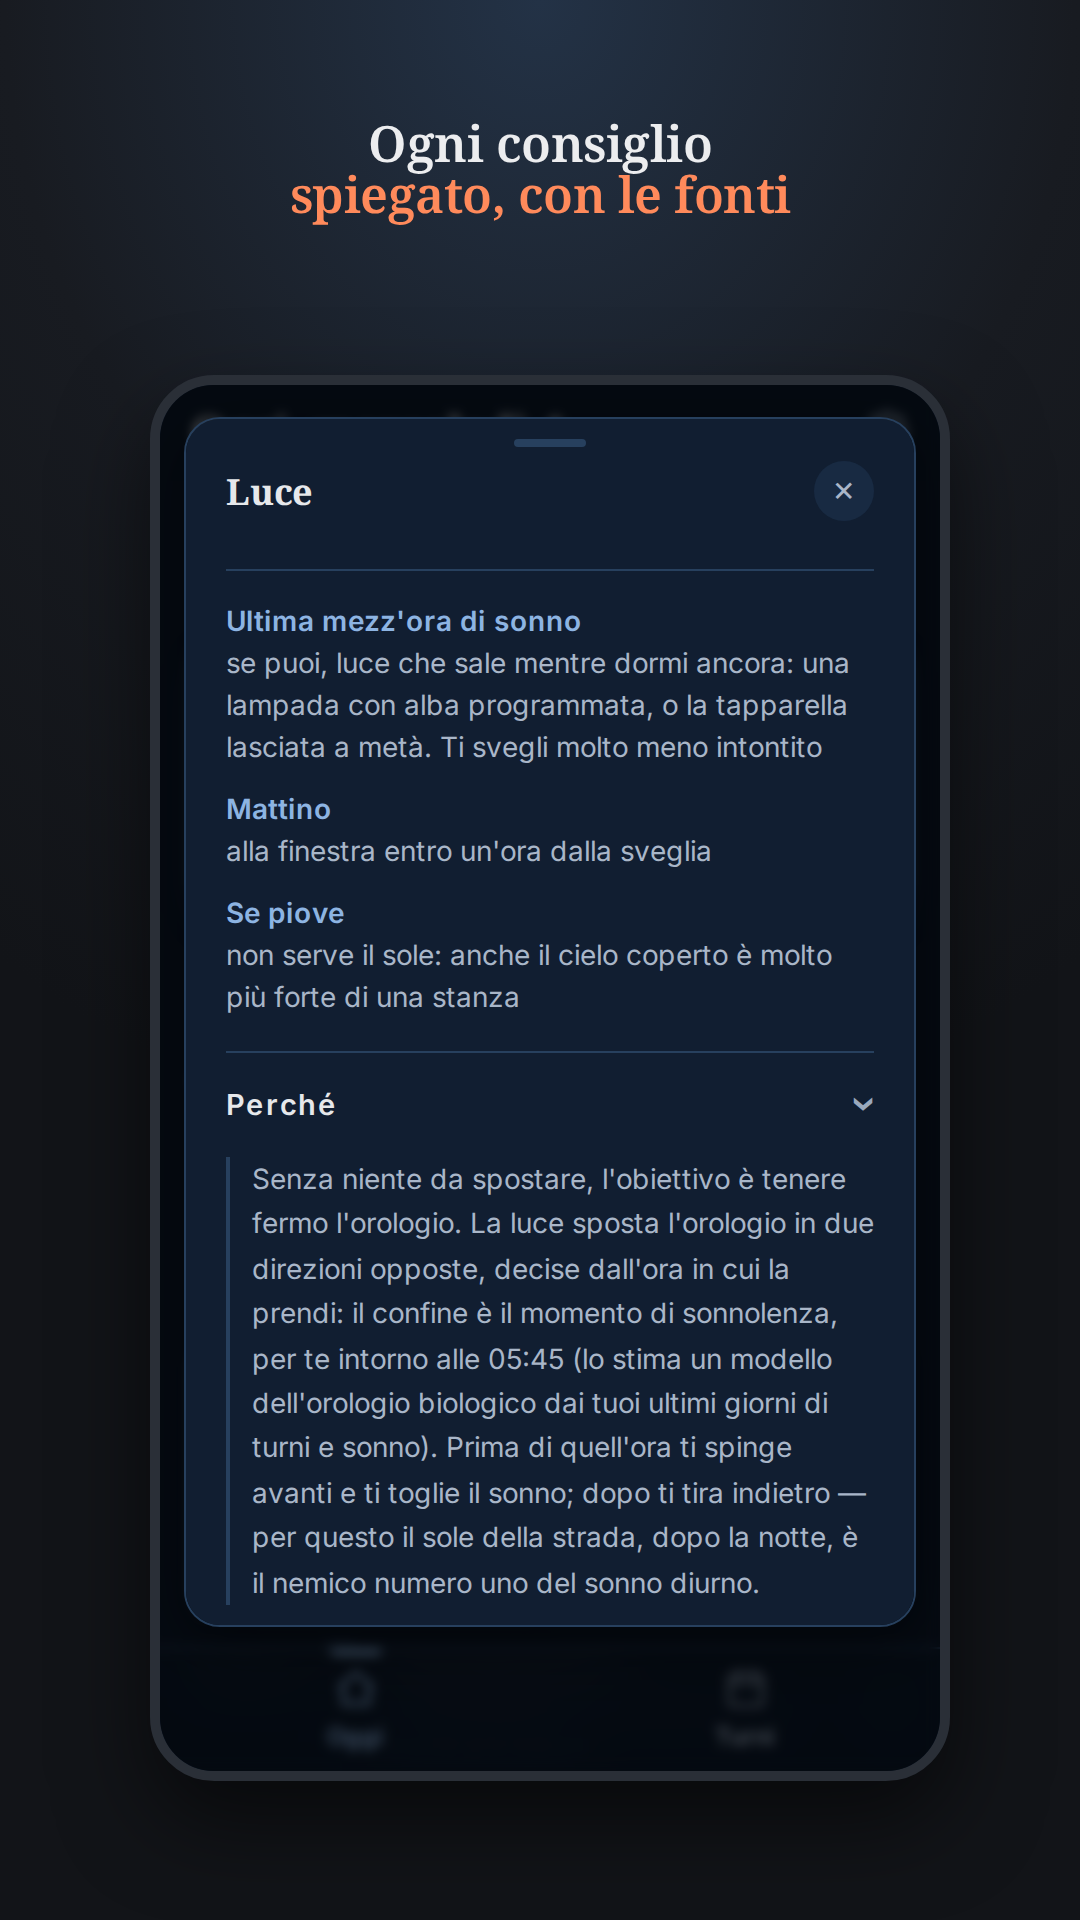
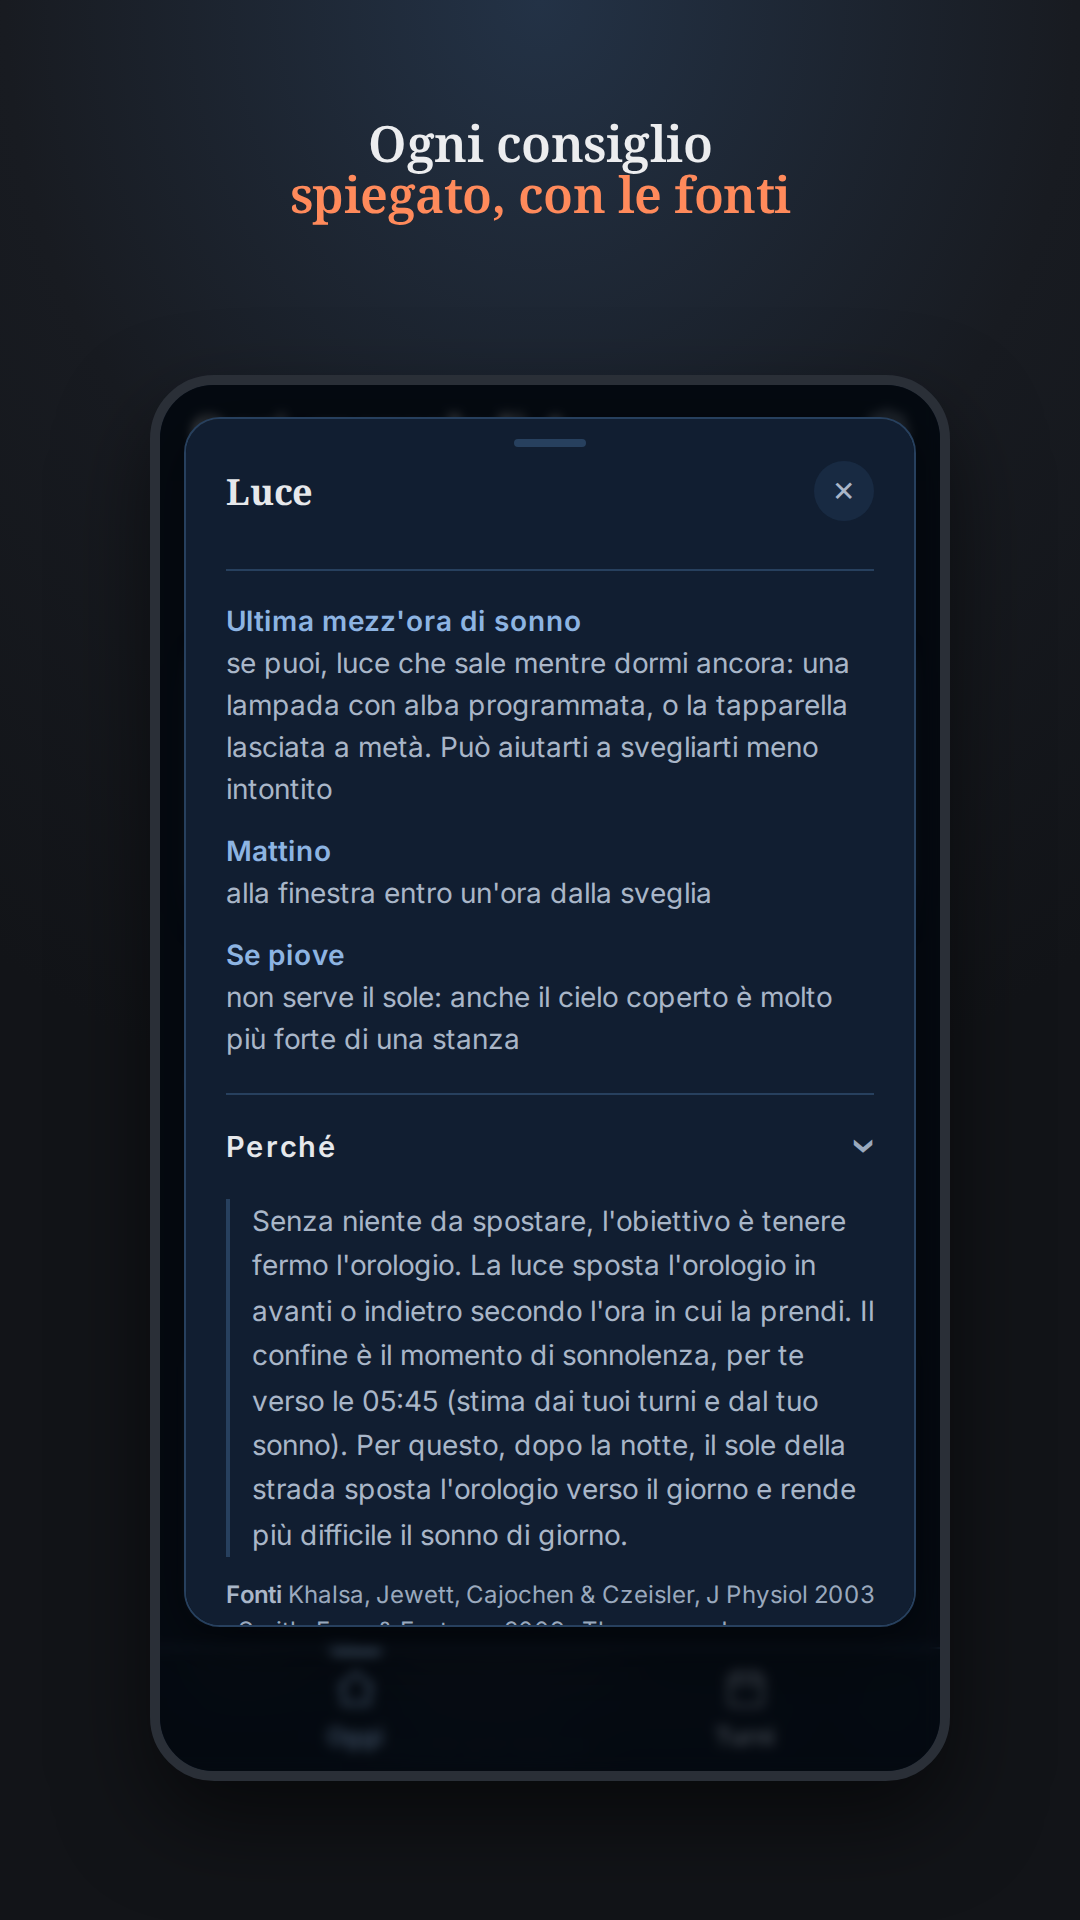
Testi: giro 5 del revisore; screenshot Play rigenerati
- Debito: il recupero è sempre parziale («ne recupera una parte»).
- Alba simulata: «può aiutarti a svegliarti meno intontito».
- Cronotipo dal diario: stesso taglio delle 18:00, test con 11:45/12:15.
- Autisti e smonto: al risveglio riparti solo quando sei sveglio; un
  quarto d'ora prima di partire. «Di solito» dove mancava.
- Impegno: «il sonno dei giorni prima si sposta verso quest'ora».
- Screenshot Play rigenerati e controllati: niente testi ritirati.

Changed region(s): [[0.1833, 0.4062, 0.7944, 0.8438], [0.3972, 0.375, 0.7639, 0.4062]]

diff --git a/index.html b/index.html
@@ -3863,14 +3863,14 @@ function cards(P){
     sc.sub="Fra questo turno e il prossimo, con il viaggio, non c'è tempo per un sonno vero. Riposa appena puoi e, se si può, chiedi un cambio: è un momento delicato per guidare, e se hai sonno meglio non guidare.";
   }
   else if(s.kind==="diurno"){
-    sc.sub="A letto appena rientri, senza fermate. Di giorno si dorme meno, è normale: le ore che mancano le recuperi col pisolino del pomeriggio.";
+    sc.sub="A letto appena rientri, senza fermate. Di giorno si dorme meno, è normale: una parte delle ore che mancano la recuperi col pisolino del pomeriggio.";
     sc.rows.push(["Camera","buio totale, tappi, telefono in silenzioso"]);
-    sc.why="Di giorno il corpo spinge a restare sveglio, e allungare a forza il sonno del mattino serve a poco. Un pisolino prima del turno rende molto di più.";
+    sc.why="Di giorno il corpo spinge a restare sveglio, e allungare a forza il sonno del mattino serve a poco. Un pisolino prima del turno di solito rende di più.";
     sc.cite="Rosekind e coll. 1995 (NASA)";
   }else if(s.kind==="corto"){
     sc.small=dur(s.dur)+" · corto apposta";
     sc.sub="È lo smonto. Dormi poco stamattina e poi resta sveglio fino a sera: costa una giornata, ma di solito domani sei già sugli orari di tutti.";
-    sc.rows.push(["Nel pomeriggio","meglio niente pisolini dopo lo smonto; se nel pomeriggio devi guidare e hai sonno, la sicurezza viene prima: un pisolino di 20 minuti"]);
+    sc.rows.push(["Nel pomeriggio","meglio niente pisolini dopo lo smonto; se nel pomeriggio devi guidare e hai sonno, la sicurezza viene prima: un pisolino di 20 minuti, e aspetta un quarto d'ora prima di partire"]);
     sc.rows.push(["Stasera","a letto verso "+hhmm(NT.at(P.S,1).onset)]);
     sc.rows.push(["Sveglia","sempre alla stessa ora nei giorni di smonto, con luce appena sveglio: aiuta a riallineare l'orologio"]);
     sc.why="Dormire fino al pomeriggio dopo l'ultima notte sembra giusto, ma sposta l'orologio ancora più in là: la notte dopo non dormi e perdi anche il secondo giorno di riposo.";
@@ -3944,7 +3944,7 @@ function cards(P){
   }else if(shift<-20){
     lc.blocks=[["seek",wake,wake+180,"cerca"],["avoid",s.onset-NT.CFG.eveningDim,s.onset,"evita"]];
     lc.val="Luce piena al risveglio"; lc.small="ti stai alzando prima";
-    lc.rowsA.push(["Ultima mezz'ora di sonno","se puoi, luce che sale mentre dormi ancora: una lampada con alba programmata, o la tapparella lasciata a metà. Ti svegli molto meno intontito"]);
+    lc.rowsA.push(["Ultima mezz'ora di sonno","se puoi, luce che sale mentre dormi ancora: una lampada con alba programmata, o la tapparella lasciata a metà. Può aiutarti a svegliarti meno intontito"]);
     lc.rowsA.push(["Al risveglio","esci o mettiti alla finestra entro un'ora"]);
     lc.rowsA.push(["Se non puoi uscire","accendi tutto quello che hai: poca luce è meglio di niente"]);
     lc.rowsE.push(["Sera","luci basse dalle "+hhmm(s.onset-NT.CFG.eveningDim)+", schermi al minimo"]);
@@ -3952,7 +3952,7 @@ function cards(P){
   }else{
     lc.blocks=[["seek",wake,wake+120,"cerca"],["avoid",s.onset-NT.CFG.eveningDim,s.onset,"evita"]];
     lc.val="Luce al mattino";
-    lc.rowsA.push(["Ultima mezz'ora di sonno","se puoi, luce che sale mentre dormi ancora: una lampada con alba programmata, o la tapparella lasciata a metà. Ti svegli molto meno intontito"]);
+    lc.rowsA.push(["Ultima mezz'ora di sonno","se puoi, luce che sale mentre dormi ancora: una lampada con alba programmata, o la tapparella lasciata a metà. Può aiutarti a svegliarti meno intontito"]);
     lc.rowsA.push(["Mattino","alla finestra entro un'ora dalla sveglia"]);
     lc.rowsA.push(["Se piove","non serve il sole: anche il cielo coperto è molto più forte di una stanza"]);
     lc.rowsE.push(["Sera","luci basse dalle "+hhmm(s.onset-NT.CFG.eveningDim)]);
@@ -4017,11 +4017,11 @@ function cards(P){
       val:hhmm(n.a)+" → "+hhmm(n.b), small:dur(n.b-n.a)+(n.rep?" · sei reperibile":""),
       sub:n.rep?("Oggi sei reperibile: se ti chiamano, la notte di sonno salta. Questo pisolino è una riserva, abbastanza lontano dalla sera da non rubarti il sonno se non chiama nessuno.")
          :n.corto?("Prima non c'era spazio per un pisolino intero: venti minuti, presi appena puoi, valgono più di niente.")
-         :n.dopo?("Prima del turno non c'era spazio. Recuperi appena stacchi, invece di portarti il debito a domani.")
+         :n.dopo?("Prima del turno non c'era spazio. Appena stacchi ne recuperi una parte, invece di portarti tutto il debito a domani.")
          :n.rec?(n.last?"L'ultimo è corto apposta: così stasera ti addormenti a un orario normale."
                        :"È la seconda metà del tuo riposo, non un extra.")
          :n.lungo?("Oggi stai in piedi "+hm(n.ore)+" di fila, e le ultime ore cadono nel tuo momento di sonnolenza. Un pisolino adesso ti toglie il tratto più duro e di solito ti fa arrivare a fine turno più lucido.")
-         :n.debito?(debitoMotivo(n)+" Questo pisolino non è un extra: rimette a posto il conto prima che si sommi a domani.")
+         :n.debito?(debitoMotivo(n)+" Questo pisolino non è un extra: ne recupera una parte prima che si sommi a domani.")
          :n.turno?("Nella pausa, prima del momento peggiore della notte. Finisce con largo margine dalla fine del turno: svegliarsi poco prima di salire in macchina peggiorerebbe proprio l'ora più delicata.")
          :((n.b-n.a)<40&&!n.rec&&!n.lungo&&!n.debito&&!n.turno)?("Hai dormito abbastanza, ma fra la sveglia di stamattina e il letto di stanotte passano "+hm(n.ore||0)+" di fila. Un pisolino corto prima di uscire non ti ruba il sonno di stanotte e di solito ti fa arrivare a fine turno più lucido.")
          :(n.first?"Di solito è il pisolino che aiuta di più in tutto il ciclo. Fallo anche senza sonno, prima di uscire di casa."
@@ -4032,7 +4032,7 @@ function cards(P){
         ["Al risveglio","per circa un quarto d'ora sei più lento: se puoi, aspetta quel quarto d'ora prima di guidare o di fare cose delicate"]],
       nap:{k:hhmm(n.a), fine:hhmm(n.b), min:n.b-n.a, turno:!!n.turno, livello:n.livello, caffe:!!n.caffe, caffeNo:n.caffeNo||""},
       why:(night ? "Dormire prima di entrare riduce il crollo di attenzione nelle ore centrali della notte, quando gli errori costano di più."
-                 : "Dormire prima di entrare ti fa arrivare al turno più lucido, e il sonno che manca pesa meno sulle ore di lavoro.")+" Un'ora e mezza di solito lascia finire un ciclo di sonno e ci si sveglia meno intontiti; se non hai tempo, venti minuti sono meglio di niente.",
+                 : "Dormire prima di entrare di solito ti fa arrivare al turno più lucido, e il sonno che manca pesa meno sulle ore di lavoro.")+" Un'ora e mezza di solito lascia finire un ciclo di sonno e ci si sveglia meno intontiti; se non hai tempo, venti minuti sono meglio di niente.",
       cite:"Rosekind e coll. 1995 (NASA) · Tassi & Muzet 2000", at:n.a});
   }
 
@@ -4101,7 +4101,7 @@ function cards(P){
       sub:"Per il viaggio contiamo "+state.cTo+" minuti all'andata e "+state.cFrom+" al ritorno: decidono quando ti prepari e da quando sei di nuovo libero.",
       ...(state.guidaLavoro ? {
         rows:[["Pause di guida","dopo 4 ore e mezza di guida, 45 minuti di pausa (anche in due: prima 15, poi 30)"],
-              ["Se hai sonno","nella pausa un caffè e subito un pisolino di 15–20 minuti; di solito l'intontimento passa in pochi minuti: riparti quando ti senti sveglio"]],
+              ["Se hai sonno","nella pausa un caffè e subito un pisolino di 15–20 minuti; al risveglio riparti solo quando ti senti sveglio"]],
         why:"Per camion e autobus le pause sono quelle delle regole europee (le stesse del tachigrafo). Il sonno al volante non avvisa: al simulatore, caffè più pisolino breve funziona meglio dei due da soli; finestrino aperto e radio alta no.",
         cite:"Reg. (CE) 561/2006, art. 7 · Reyner &amp; Horne 1997 (simulatore di guida)" } : {}),
       cambia:4, cambiaTxt:"Cambia il tuo tragitto",
@@ -4637,11 +4637,11 @@ function diaryReminder(P, CARDS){
     if(extraN){ stato="Da recuperare: "+hm(P.debitoMin)+" di sonno · stanotte +"+extraN+" min";
       statoPerche="Con più di tre ore di debito un pisolino non basta, e accorcerebbe il sonno di stanotte: per questo il piano anticipa di "+extraN+" minuti l'ora di letto. La sveglia resta la stessa, perché spostarla sposterebbe anche l'orologio del corpo."; }
     else if(napRec){ stato="Da recuperare: "+hm(napRec.debito)+" di sonno · pisolino alle "+hhmm(napRec.a);
-      statoPerche=debitoMotivo(napRec)+" Il pisolino non è un extra: rimette a posto il conto prima che si sommi a domani. Quando comincia ti chiedo se l'hai fatto."; }
+      statoPerche=debitoMotivo(napRec)+" Il pisolino non è un extra: ne recupera una parte prima che si sommi a domani. Quando comincia ti chiedo se l'hai fatto."; }
     else if(P.debitoScoperto>0){ stato="Da recuperare: "+hm(P.debitoScoperto)+" di sonno · oggi non c'è spazio per un pisolino";
       statoPerche="Oggi non c'è spazio per un pisolino, né prima né dopo il turno. Il conto resta aperto: recupera stanotte e, se hai sonno, evita di guidare."; }
     else if(napRecDebt){ stato="Per recuperare, il piano propone un pisolino alle "+hhmm(napRecDebt.a);
-      statoPerche="La notte è stata più corta di quella che il piano proponeva: un pisolino di recupero evita di portare il conto a domani."; }
+      statoPerche="La notte è stata più corta di quella che il piano proponeva: un pisolino di recupero ne toglie una parte."; }
     // le notti che pesano di più: il «Perché?» mostra da dove viene il numero
     const notti=(P.debitoNotti||[]).map(x=>{ const g=new Date(x.date+"T12:00:00").toLocaleDateString(LINGUA,{weekday:"short",day:"numeric",month:"short"});
       return '<div class="row"><b>'+esc(g.charAt(0).toUpperCase()+g.slice(1))+'</b><span>'+hm(x.totale)+' su '+hm(x.meta)+' (–'+hm(x.manca)+')</span></div>'; }).join("");
@@ -6950,7 +6950,7 @@ function renderHeader(P, f){
     if(diffDays >= 1 && diffDays <= 3 && dnum(state.focus) === dnum(giornoVero())){
       cls = (cls ? cls + " " : "") + "info";
       const evGiornoTxt = diffDays === 1 ? "domani" : evD.toLocaleDateString(LINGUA, { weekday: "long" });
-      msg += (msg?'<br>':'')+'<span class="lucidita-banner" style="display:inline-block;margin-top:6px;font-size:13px;color:var(--blue);font-weight:600">🎯 In vista dell\'impegno di ' + esc(evGiornoTxt) + ' alle ' + esc(state.evento.h) + ', il sonno di questi giorni è regolato per arrivarci in forma.</span>';
+      msg += (msg?'<br>':'')+'<span class="lucidita-banner" style="display:inline-block;margin-top:6px;font-size:13px;color:var(--blue);font-weight:600">🎯 In vista dell\'impegno di ' + esc(evGiornoTxt) + ' alle ' + esc(state.evento.h) + ', il sonno di questi giorni si sposta verso quell\'ora.</span>';
     }
   }
   $("#status").className="status "+cls; $("#status").innerHTML="<p>"+msg+"</p>";
@@ -7449,10 +7449,10 @@ function perchéOggi(P){
   if(m.gap>90) return "";
   if(m.gap) return "I riposi non bastano a spostare del tutto l'orologio: al primo turno sarà ancora indietro di "+aVoce(m.gap)+". Di solito il primo giorno è un po' più faticoso, poi passa.";
   if(m.reset) return "Giorno di rientro: stasera a letto al tuo orario, per tornare al ritmo del giorno.";
-  if(m.preNight || s.kind==="pre-notte") return "Domani attacchi la notte: stanotte vai a letto e ti alzi più tardi del solito, così arrivi al turno più sveglio.";
+  if(m.preNight || s.kind==="pre-notte") return "Domani attacchi la notte: stanotte vai a letto e ti alzi più tardi del solito, così di solito arrivi al turno più sveglio.";
   if(s.kind==="pre-turno-bifasico" && attacco()) return "Domani attacchi alle "+attacco()+": stasera a letto appena ti viene sonno, il resto con un pisolino dopo il turno.";
   if(s.kind==="pre-turno" && attacco()) return "Domani attacchi alle "+attacco()+": stasera a letto presto.";
-  if(m.esteso>=20) return "Stanotte c'è spazio per "+aVoce(m.esteso)+" di sonno in più: "+(P.nb && P.nb.rest ? "recuperi quello perso nei turni." : "arrivi al prossimo turno con una riserva.");
+  if(m.esteso>=20) return "Stanotte c'è spazio per "+aVoce(m.esteso)+" di sonno in più: "+(P.nb && P.nb.rest ? "ti aiuta a recuperarne una parte." : "arrivi al prossimo turno con una riserva.");
   const nd=nextDuty(P);
   if(m.ramp && isFinite(P.shift) && Math.abs(P.shift)>=15)
     return "Il sonno si sposta di "+aVoce(Math.abs(P.shift))+" più "+(P.shift>0?"tardi":"presto")+(nd?", per arrivare pronto al turno di "+nd.gg:"")+": l'orologio del corpo si sposta un po' alla volta.";
@@ -7784,7 +7784,9 @@ function liberiPuliti(){
     let libero=false;
     try{ const off=dnum(g)-f, b=NT.block(off); libero = b.rest && NT.tipoDelGiorno(off-1)!=="n"; }catch(e){}
     if(!libero) continue;
-    const b0=t(bd); mids.push((b0<720 ? b0+1440 : b0)+d/2); durs.push(d); }
+    // Stesso taglio delle 18:00 dell'etichetta: chi va a letto a volte alle 11:45 e a volte alle 12:15
+    // deve dare due metà vicine (16:00), non 16:00 e 04:00.
+    const b0=t(bd); mids.push((b0<1080 ? b0+1440 : b0)+d/2); durs.push(d); }
   if(mids.length<4) return null;
   const m=v=>v.reduce((a,b)=>a+b,0)/v.length;
   return {n:mids.length, msf:mod1440(m(mids)), sd:m(durs)};
@@ -7838,7 +7840,7 @@ function orologioHtml(){
       '<p class="oro-tipo">'+esc(o.tipo)+'</p><p class="hint" style="margin:0 0 6px">Stima dai giorni liberi, quando niente ti sveglia'+(o.recupero ? ', senza contare il sonno di recupero' : '')+(o.liberiDiario ? ' · da '+o.liberiDiario+' giorni liberi del tuo diario' : '')+'.</p>'+
       fasciaOrologio(o)+
       (cronotipoTurni(o) ? '<p class="hint oro-turni" style="margin:0 0 8px">'+esc(cronotipoTurni(o))+'</p>' : '')+
-      riga("Metà del sonno", hhmm(o.mid), o.recupero || o.liberiDiario ? "il centro del sonno nei liberi; l\'etichetta toglie il recupero e usa il diario" : "il centro del sonno: dice se sei allodola o gufo")+
+      riga("Metà del sonno", hhmm(o.mid), o.recupero || o.liberiDiario ? "il centro del sonno nei liberi; l\'etichetta toglie il recupero e usa il diario" : "il centro del sonno: indica, in stima, se sei allodola o gufo")+
       riga("Melatonina", "dalle "+hhmm(o.mel), "il corpo comincia a preparare il sonno: luci basse")+
       riga("Momento di sonnolenza", hhmm(o.cbt), "il punto più basso della notte: la luce prima ti sposta indietro, dopo in avanti")+
       (o.lucido ? riga("Più vigile", "verso le "+o.lucido, "stima: di solito è più difficile addormentarsi") : "")+
@@ -9122,8 +9124,8 @@ function renderQsSpeciale(){
   const aperto=_qsAltro || ["reperibile","formazione","extra"].includes(g.t) || evQui;
   el.innerHTML='<div class="qs-chips">'+chip("ferie")+chip("malattia")+'<button type="button" class="qs-chip" data-qs-altro aria-expanded="'+aperto+'">Altro '+(aperto?'▴':'▾')+'</button></div>'+
     (aperto ? '<div class="qs-chips">'+altri+'</div>' : '')+
-    (evQui ? '<div class="qs-ore"><span>Mente lucida alle</span><input type="time" data-qs-impegno-h value="'+esc(ev.h)+'" aria-label="Ora dell\'impegno">'+
-      '<small>Esame, visita, colloquio: il sonno dei giorni prima si regola per arrivarci in forma. Un impegno alla volta.</small></div>' : '')+
+    (evQui ? '<div class="qs-ore"><span>Impegno alle</span><input type="time" data-qs-impegno-h value="'+esc(ev.h)+'" aria-label="Ora dell\'impegno">'+
+      '<small>Esame, visita, colloquio: il sonno dei giorni prima si sposta verso quest\'ora. Un impegno alla volta.</small></div>' : '')+
     (g.t==="extra" && !lavoro ? '<p class="hint" style="margin:0;font-size:12.5px">Scegli qui sopra quale turno fai.</p>' : '')+
     (g.t==="reperibile" ? '<p class="hint" style="margin:0;font-size:12.5px">Nel piano trovi un pisolino nel pomeriggio: una riserva se ti chiamano. Al risveglio, se puoi, aspetta un quarto d\'ora prima di guidare.</p>' : '');
 }
@@ -11093,7 +11095,7 @@ function renderLuciditaCard(){
   const ev=state.evento;
   if(!state.turniConfigurati || !(ev && ev.d===iso(state.focus) && ev.h) || dnum(state.focus)<dnum(giornoVero()) || document.body.classList.contains("primo-avvio")){ wrap.innerHTML=""; return; }
   wrap.innerHTML='<div class="lucidita-card"><span class="lucidita-ic" aria-hidden="true">🎯</span>'+
-    '<div><b>Mente lucida alle '+esc(ev.h)+'</b><span>Il sonno dei giorni prima è regolato per arrivarci in forma.</span></div>'+
+    '<div><b>Impegno alle '+esc(ev.h)+'</b><span>Il sonno dei giorni prima si sposta verso quest\'ora.</span></div>'+
     '<button type="button" class="btn g" data-lucidita-cambia>Cambia</button></div>';
 }
 if($("#luciditaGiornoWrap")) $("#luciditaGiornoWrap").addEventListener("click", e=>{

diff --git a/tests/tono.test.js b/tests/tono.test.js
@@ -17,7 +17,11 @@ const VIETATE = [/stasera devi/i, /rischio alto/i, /impedit/i, /sospettat/i, /sb
   // lucidità, le soglie di sicurezza, il debito che si chiude in fretta, gli effetti dati per certi
   /fermati\W+20/i, /qualche minuto[^.]*guid/i, /tornare a casa più/i, /strada di casa/i, /lucidità ottimale|picco di lucidità|lucidità ok/i,
   /(?<!di solito )sei più lucid/i, /più rischios/i, /pochi giorni tranquilli/i, /migliora sia/i, /soglia delle 17/i,
-  /con un revisore/i, /anche col cielo coperto/i, /per i più è/i];
+  /con un revisore/i, /anche col cielo coperto/i, /per i più è/i,
+  // giro 5: l'inerzia che «passa in pochi minuti» prima di guidare, il debito dato per recuperato tutto,
+  // l'alba simulata come certezza, le promesse di risultato («arrivarci in forma», «mente lucida»)
+  /(pochi|qualche) minut[^.]*(guid|ripart)/i, /rimette a posto il conto|recuperi quello perso|portare il conto a domani/i,
+  /molto meno intontit/i, /arrivarci in forma/i, /mente lucida/i];
 
 // La scheda di Google Play è testo semplice: ogni riga conta.
 const SCHEDA = "docs/play/scheda.md";
